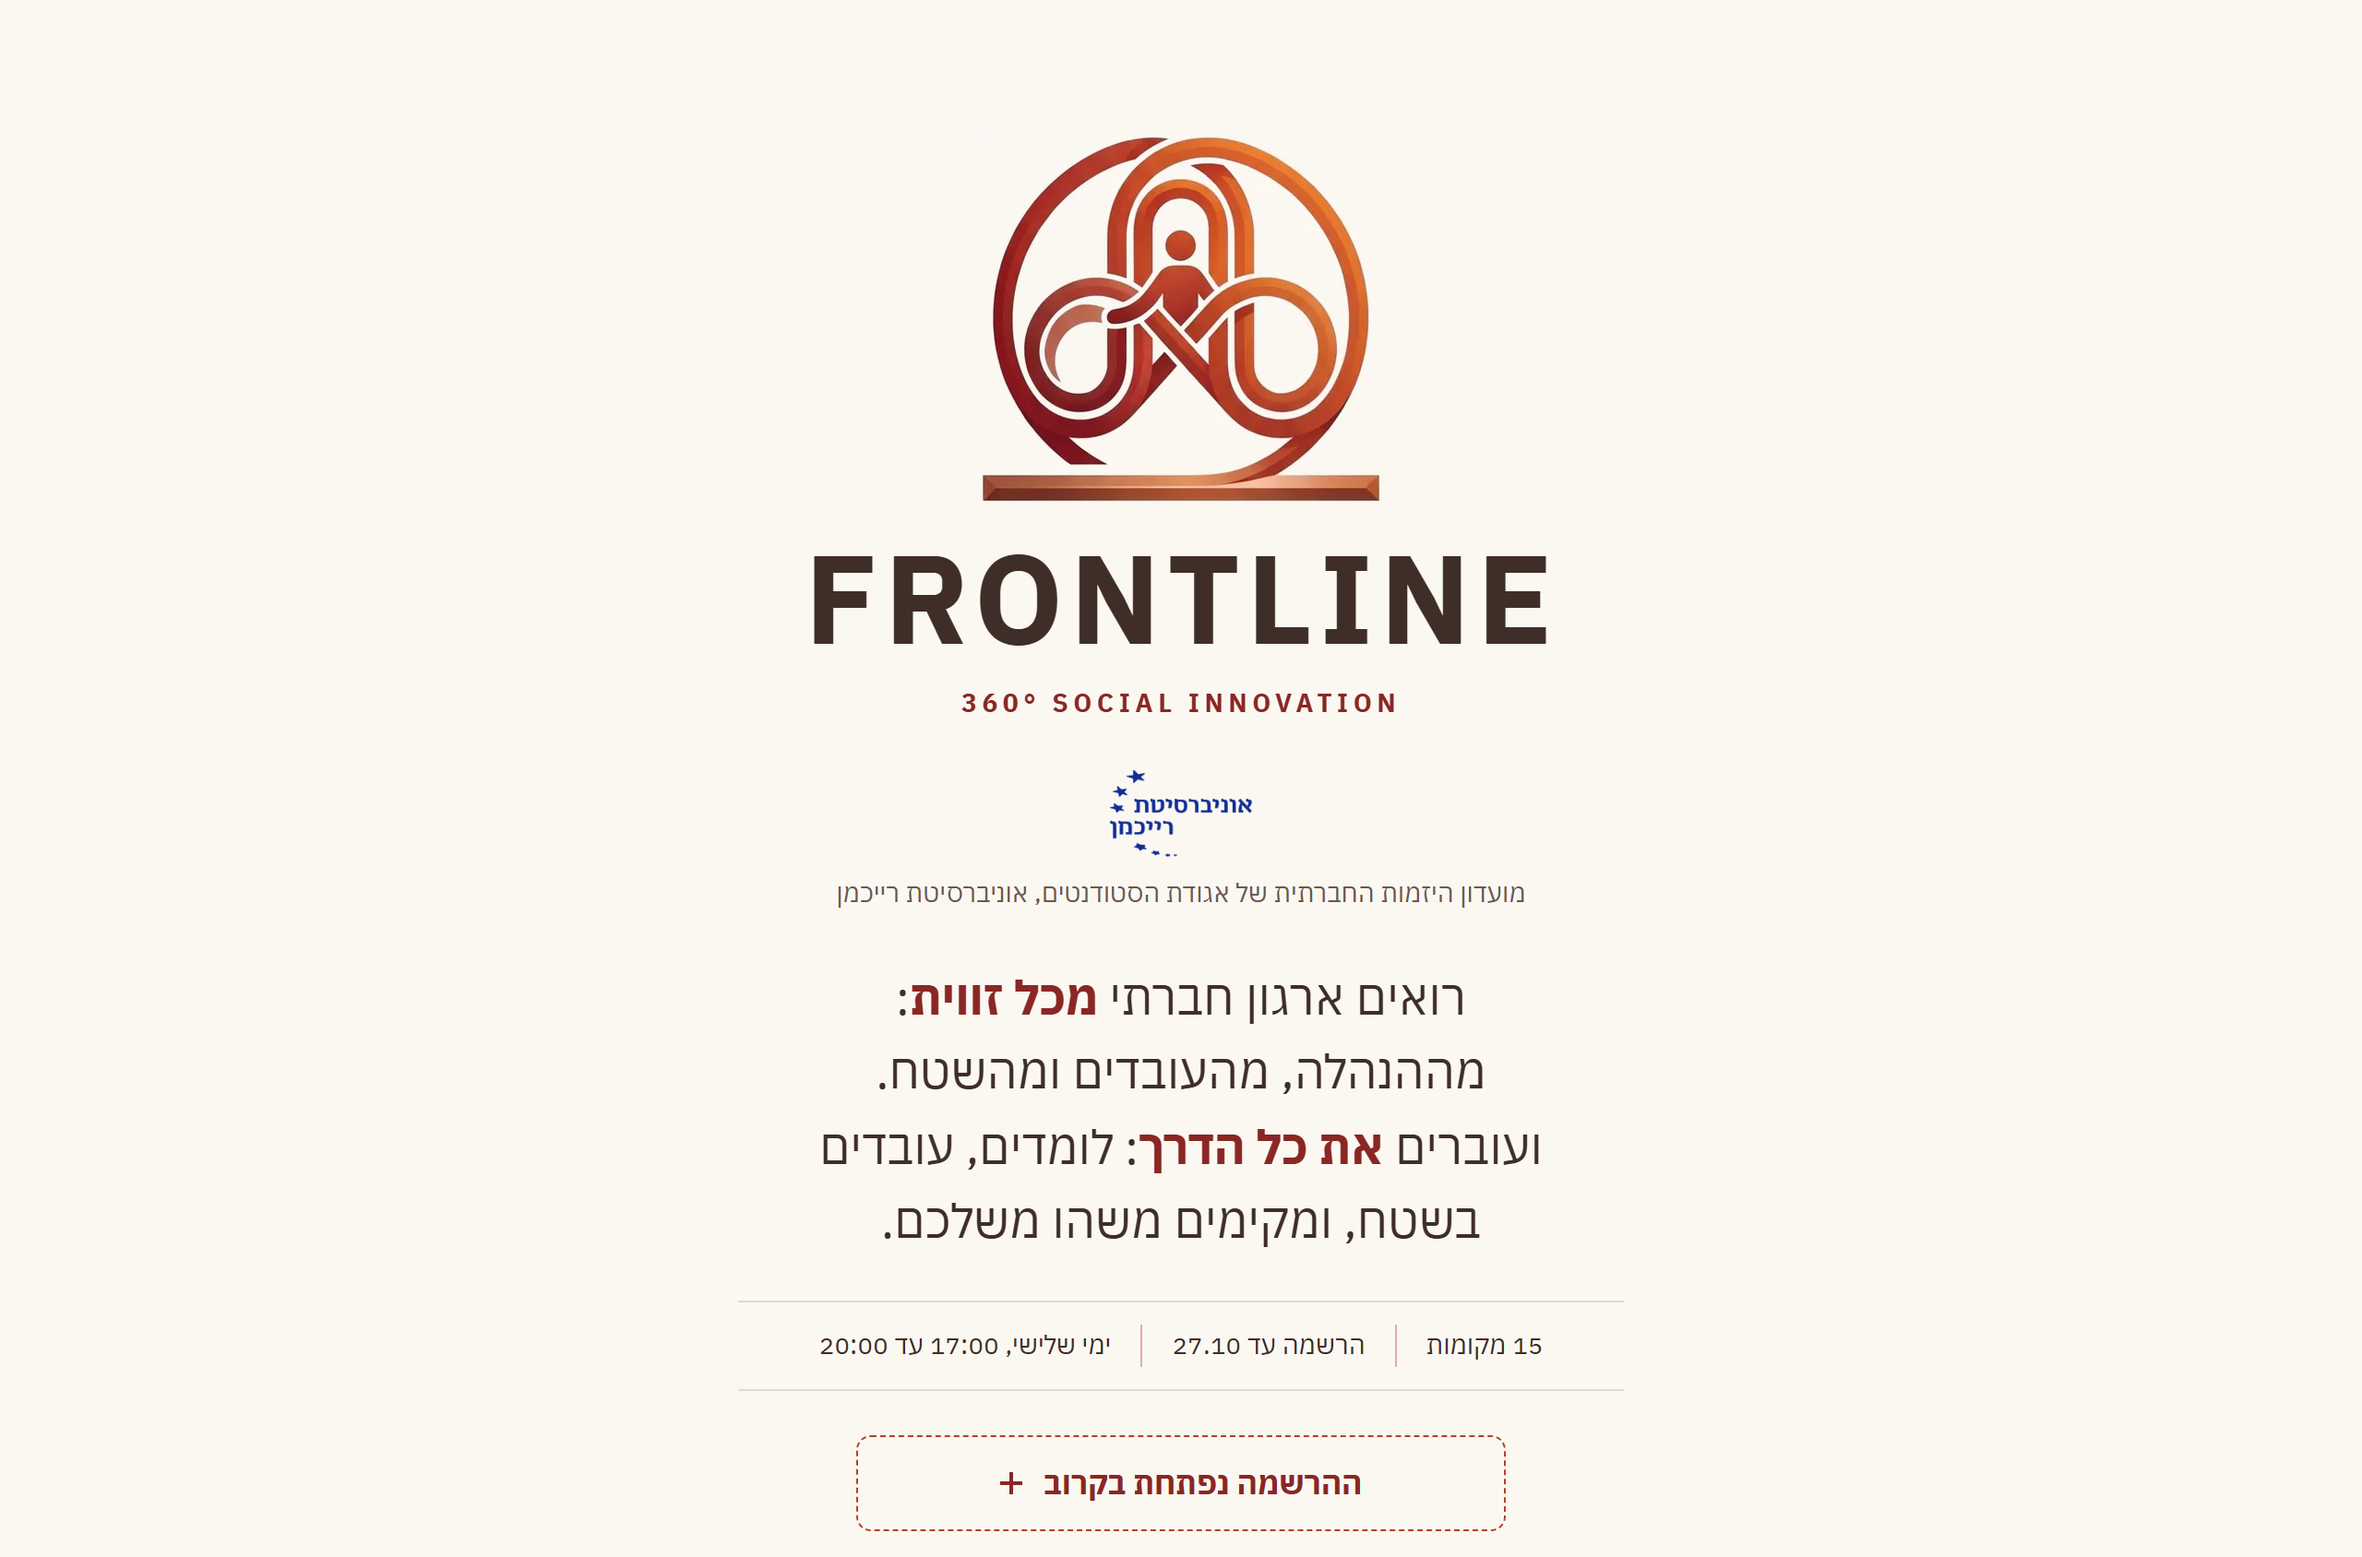
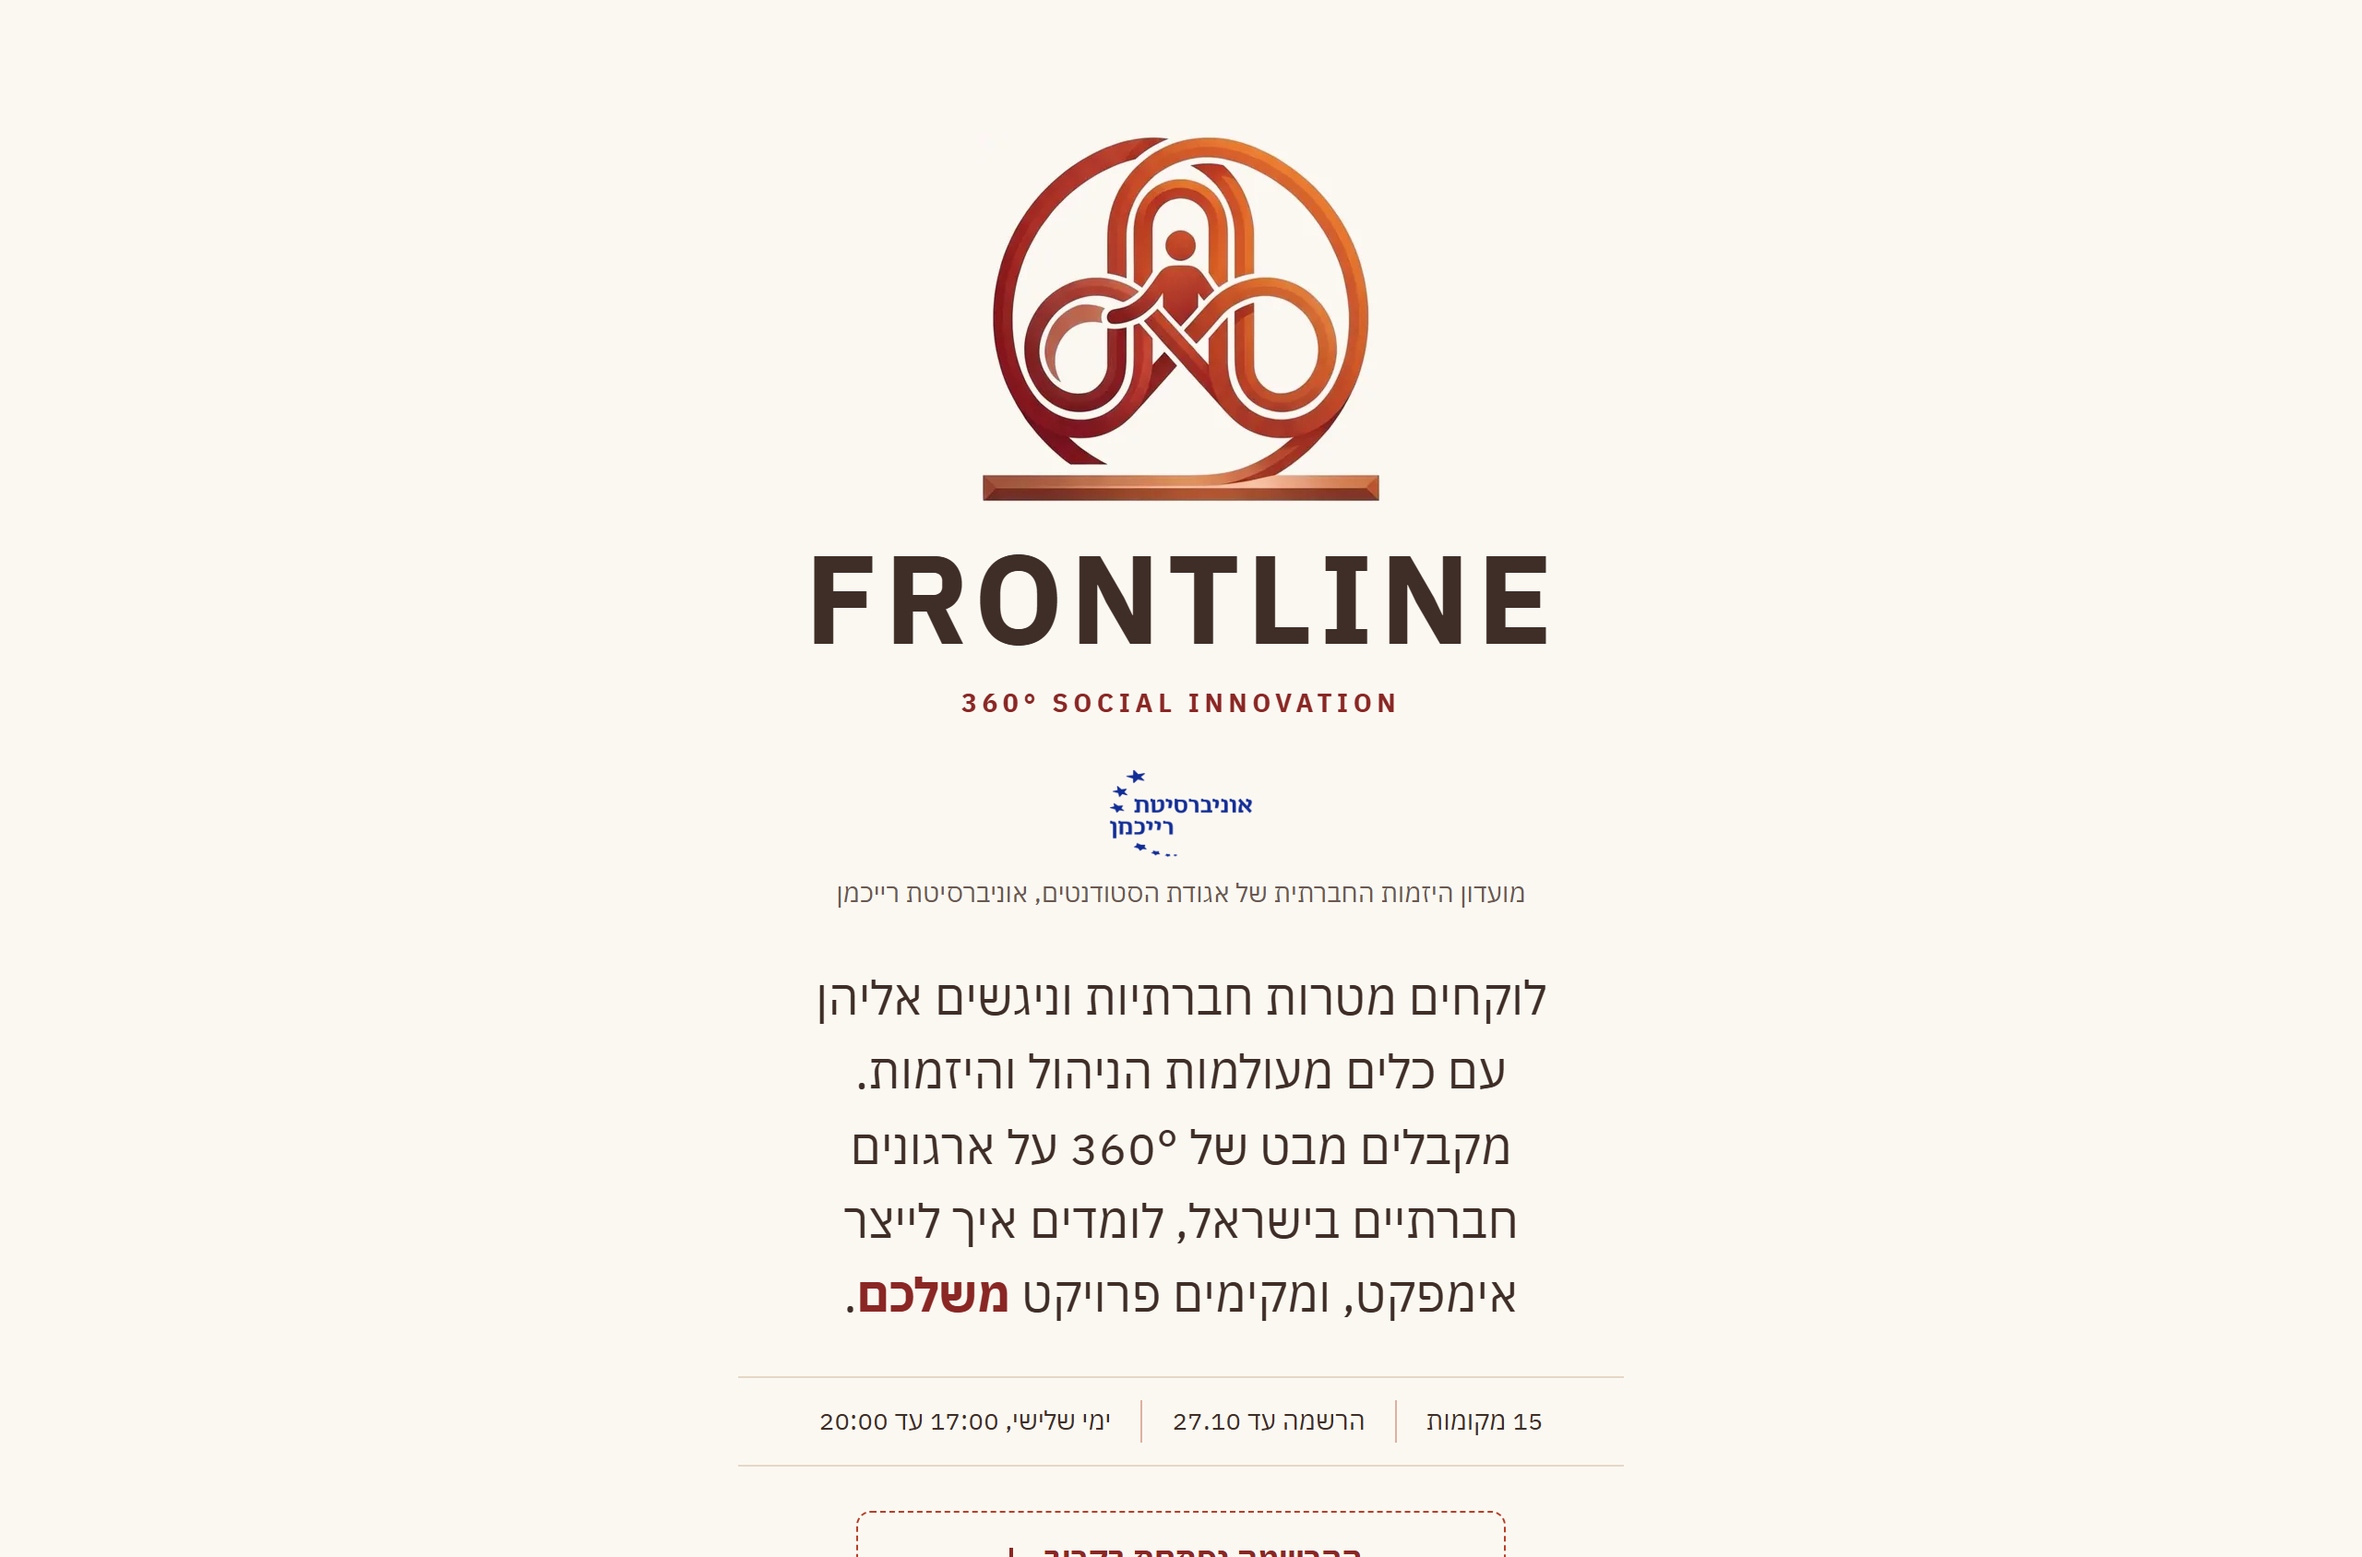
The Owner's new hero lead, in the page, its descriptions and the share card; the phone hero one step tighter
The lead keeps two lines of thought and one emphasised word. On phones the hero's spacing is one step tighter and the mark smaller, so the sign-up button and the partner link fit an in-app browser and the board still ends the first screen at 390 x 844. og.png re-rendered from og/card.html at 1200 x 630.

Changed region(s): [[0.3438, 0.6161, 0.6562, 1.0]]

diff --git a/index.html b/index.html
@@ -6,13 +6,13 @@
 <meta name="color-scheme" content="only light">
 <meta name="theme-color" content="#FBF8F2">
 <title>FRONTLINE · 360° Social Innovation</title>
-<meta name="description" content="רואים ארגון חברתי מכל זווית: מההנהלה, מהעובדים ומהשטח. ועוברים את כל הדרך: לומדים, עובדים בשטח, ומקימים משהו משלכם.">
+<meta name="description" content="לוקחים מטרות חברתיות וניגשים אליהן עם כלים מעולמות הניהול והיזמות. מקבלים מבט של 360° על ארגונים חברתיים בישראל, לומדים איך לייצר אימפקט, ומקימים פרויקט משלכם.">
 <link rel="canonical" href="https://amitfidel.github.io/frontline/">
 
 <meta property="og:type" content="website">
 <meta property="og:site_name" content="FRONTLINE">
 <meta property="og:title" content="FRONTLINE · 360° Social Innovation">
-<meta property="og:description" content="רואים ארגון חברתי מכל זווית: מההנהלה, מהעובדים ומהשטח. ועוברים את כל הדרך: לומדים, עובדים בשטח, ומקימים משהו משלכם.">
+<meta property="og:description" content="לוקחים מטרות חברתיות וניגשים אליהן עם כלים מעולמות הניהול והיזמות. מקבלים מבט של 360° על ארגונים חברתיים בישראל, לומדים איך לייצר אימפקט, ומקימים פרויקט משלכם.">
 <meta property="og:url" content="https://amitfidel.github.io/frontline/">
 <meta property="og:image" content="https://amitfidel.github.io/frontline/assets/og.png">
 <meta property="og:image:type" content="image/png">
@@ -45,7 +45,7 @@
     <p class="tagline" dir="ltr" lang="en">360° Social Innovation</p>
     <p class="backing"><span class="todo" data-cfg="BACKING_TEXT"><b>למילוי</b> · שורת הגיבוי</span></p>
 
-    <p class="lead"><span>רואים ארגון חברתי <em>מכל זווית</em>: מההנהלה, מהעובדים ומהשטח.</span> <span>ועוברים <em>את כל הדרך</em>: לומדים, עובדים בשטח, ומקימים משהו משלכם.</span></p>
+    <p class="lead"><span>לוקחים מטרות חברתיות וניגשים אליהן עם כלים מעולמות הניהול והיזמות.</span> <span>מקבלים מבט של 360° על ארגונים חברתיים בישראל, לומדים איך לייצר אימפקט, ומקימים פרויקט <em>משלכם</em>.</span></p>
 
     <ul class="facts" aria-label="פרטי המחזור">
       <li><span class="todo" data-cfg="SEATS"><b>למילוי</b> · מספר מקומות</span></li>

diff --git a/styles.css b/styles.css
@@ -192,6 +192,20 @@ a.btn-line:hover { background: rgb(138 39 36 / 0.07); color: var(--rust-deep); }
 .hero button.btn.is-soon[aria-expanded="true"]::after { transform: rotate(45deg); }
 .cta-row .btn { inline-size: min(100%, 22rem); }
 .text-link { display: inline-flex; align-items: center; min-block-size: 2.75rem; font-weight: 700; }
+/* The first screen on a phone. The backing line and the Owner's lead made the hero about 120 px
+   taller, so below 900 px its rhythm is one spacing step tighter and the mark smaller: the
+   sign-up button and the partner link stay inside an in-app browser (about 700 px tall), and
+   the board with its kicker still ends the first screen at 390 x 844. */
+@media (max-width: 899.98px) {
+  .hero { --pad-end: var(--s-6); padding-block-start: var(--s-5); }
+  .mark { inline-size: clamp(112px, 30vw, 220px); margin-block-end: var(--s-3); }
+  .tagline { margin-block-start: var(--s-2); }
+  .backing.has-logo { margin-block-start: var(--s-4); line-height: 1.45; }
+  .backing-logo { block-size: 2.5rem; }
+  .lead { margin-block-start: var(--s-4); line-height: 1.5; }
+  .facts { row-gap: var(--s-1); margin-block-start: var(--s-4); padding-block: var(--s-2); }
+  .cta-row { margin-block-start: var(--s-4); }
+}
 
 /* ---- the hero's soon panel, and the actions both panels share (main.js builds them) ---- */
 .soon-panel { display: grid; grid-template-rows: 0fr; inline-size: min(100%, 22rem); margin-block-start: calc(var(--s-2) * -1); } /* closed, it takes no gap */

diff --git a/og/card.html b/og/card.html
@@ -32,7 +32,7 @@
   <div>
     <h1 dir="ltr" lang="en">FRONTLINE</h1>
     <p class="tag" dir="ltr" lang="en">360° Social Innovation</p>
-    <p class="line"><span>רואים ארגון חברתי <em>מכל זווית</em>: מההנהלה, מהעובדים ומהשטח.</span> <span>ועוברים <em>את כל הדרך</em>: לומדים, עובדים בשטח, ומקימים משהו משלכם.</span></p>
+    <p class="line"><span>לוקחים מטרות חברתיות וניגשים אליהן עם כלים מעולמות הניהול והיזמות.</span> <span>מקבלים מבט של 360° על ארגונים חברתיים בישראל, לומדים איך לייצר אימפקט, ומקימים פרויקט <em>משלכם</em>.</span></p>
   </div>
 </body>
 </html>
